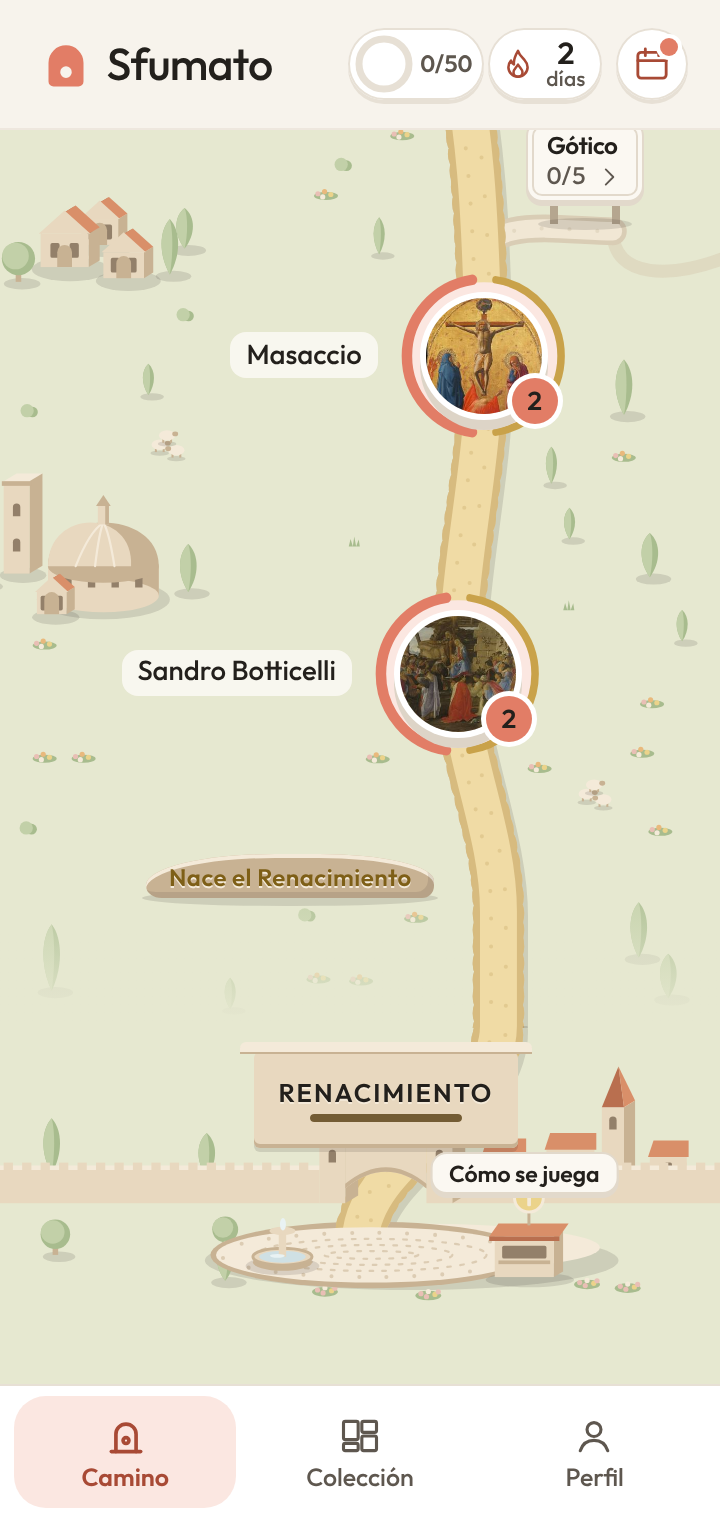
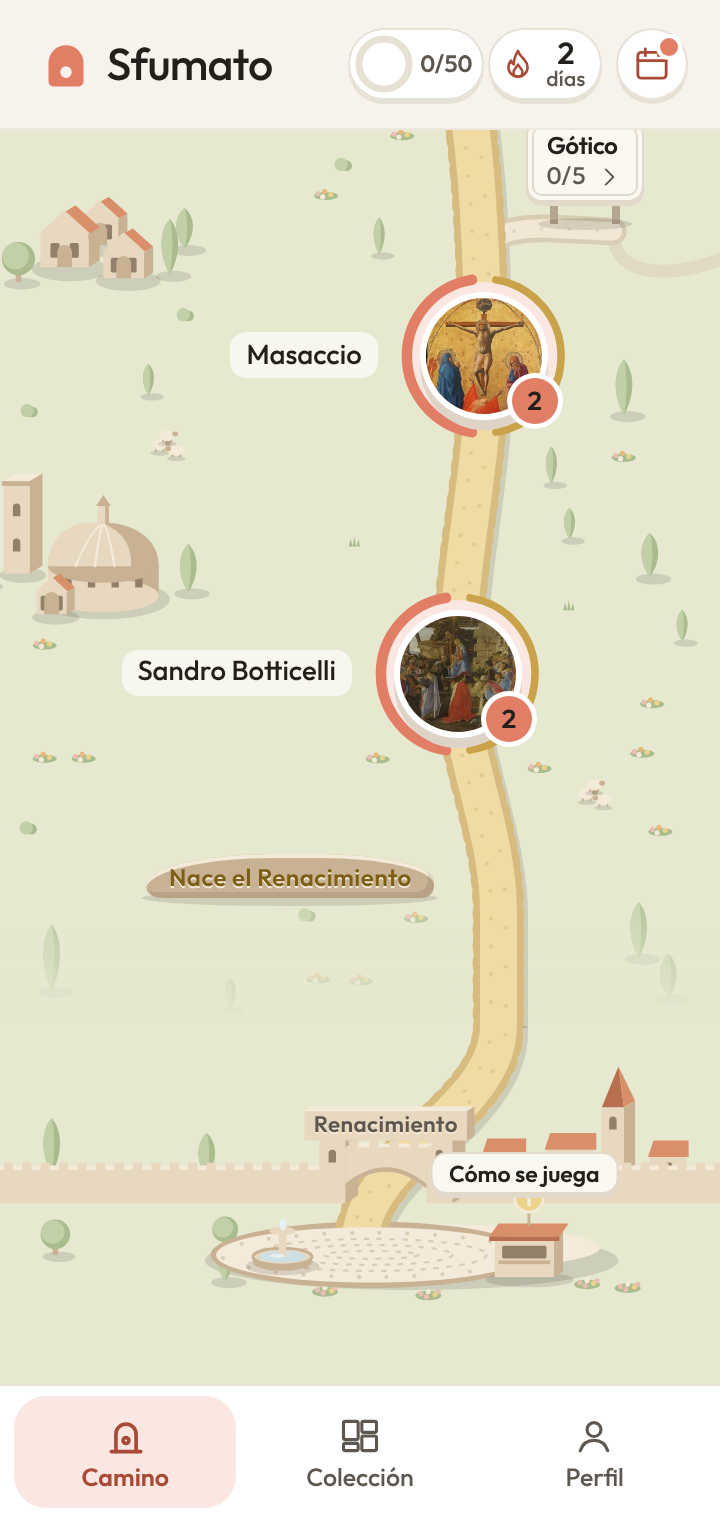
Prototipo r5b: el nombre de la primera época, en el ático de la puerta de la muralla
Claude-Session: https://claude.ai/code/session_019fDNM9JQCi9RMni862vT41

Changed region(s): [[0.3667, 0.6803, 0.7333, 0.773]]

diff --git a/app/js/ui/screens/path-art.js b/app/js/ui/screens/path-art.js
@@ -70,7 +70,17 @@ const START_FRONT = `${fountain(FOUNTAIN.x, FOUNTAIN.y)}${kiosk(KIOSK)}${tower(G
       <path class="land-side" d="M${GATE.left + GATE.tower} 88Q${(GATE.left + GATE.tower + GATE.right) / 2} 70 ${GATE.right} 88L${GATE.right} 85.5Q${(GATE.left + GATE.tower + GATE.right) / 2} 67.5 ${GATE.left + GATE.tower} 85.5Z"/>
       ${[0, 1, 2, 3].map((i) => `<rect class="land-front" x="${GATE.left + GATE.tower + 2 + i * 11}" y="62" width="5" height="4"/>`).join('')}`;
 
-export const startArt = () => ({ back: START_BACK, front: START_FRONT });
+// PROTOTIPO: ático con el nombre de la primera época sobre el arco de la puerta de la muralla.
+const START_ATTIC = { x0: 165, x1: 253, top: 46, bottom: 62, foot: GATE.y, boxTop: 40 };
+const START_ATTIC_SVG = `<rect class="land-front" x="${START_ATTIC.x0}" y="${START_ATTIC.top}" width="${START_ATTIC.x1 - START_ATTIC.x0}" height="${START_ATTIC.bottom - START_ATTIC.top}"/>
+      <path class="land-top" d="M${START_ATTIC.x0} ${START_ATTIC.top}H${START_ATTIC.x1}L${START_ATTIC.x1 + 4} ${START_ATTIC.top - 2.4}H${START_ATTIC.x0 + 4}Z"/>
+      <path class="land-side" d="M${START_ATTIC.x1} ${START_ATTIC.bottom}V${START_ATTIC.top}L${START_ATTIC.x1 + 4} ${START_ATTIC.top - 2.4}V${START_ATTIC.bottom - 2.4}Z"/>`;
+export const startPlace = () => {
+  const { x0, x1, bottom, foot, boxTop } = START_ATTIC;
+  const hh = foot - boxTop;
+  return { x0, x1, y: foot, top: boxTop, atticAt: (foot - bottom) / hh, atticH: (bottom - START_ATTIC.top) / hh, atticW: 1 };
+};
+export const startArt = () => ({ back: START_BACK, front: START_FRONT + START_ATTIC_SVG });
 
 // «Tu museo»: cúpula y columnas; sus ventanas se encienden de noche.
 export function museumArt() {

diff --git a/app/js/ui/screens/path-map.js b/app/js/ui/screens/path-map.js
@@ -19,7 +19,7 @@ import { isDormant } from '../../engine/review.js';
 import { salaLearnWorks } from '../../engine/catalog.js';
 import { MAP_W, STEP, SIDE_X, GATE_Y, pathLayout, eraLayout, walkedD } from './path-layout.js';
 import { trailSvg, eraArch, startBlock, museumBlock, branchSpot, tramoSign, branchState, tramoState, stepName, ofEra, pct } from './path-signs.js';
-import { eraGate, bridgeRails, protoPlace } from './path-art.js';
+import { eraGate, bridgeRails, protoPlace, startPlace } from './path-art.js';
 
 export { MAP_W, STEP, pathLayout, eraLayout, DORMANT_TEXT };
 import { pathActions, showLockNote, levelCard } from './path-actions.js';
@@ -70,7 +70,7 @@ export function renderPathMap(ctx, { lazy = false } = {}) {
   const done = isPathMastered(ctx.store.get().progress, index);
   // El arco de la primera época va sobre la puerta de la muralla de salida.
   const first = layout.eras[0];
-  const firstArch = first && !first.arch ? archHtml(ctx, first, null, layout.start.arch, layout.start.h) : '';
+  const firstArch = first && !first.arch ? archHtml(ctx, first, null, { ...layout.start.arch, ...startPlace() }, layout.start.h) : '';
   return `${startBlock(layout.start, firstTint, firstArch)}${html}${museumBlock(layout.museum, index.visibleMovements.length, done)}`;
 }
 
